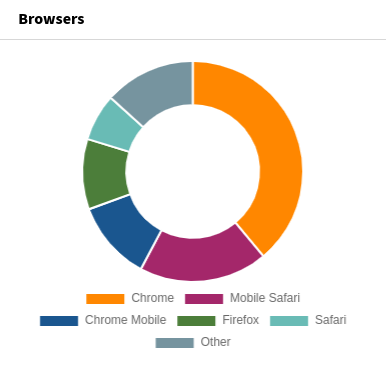
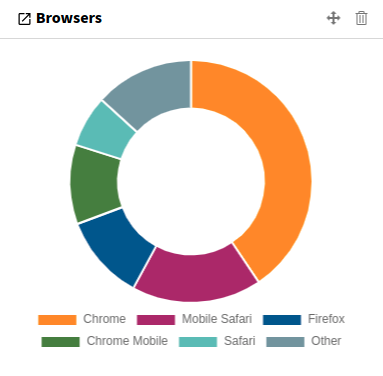
[FEATURE] Add link from widget to corresponding Matomo report
Resolves: #7

Changed region(s): [[0.0862, 0.1463, 0.8903, 0.9362], [0.0, 0.0293, 1.0, 0.117], [0.3446, 0.1755, 0.4308, 0.2048]]

diff --git a/Resources/Private/Layouts/Widget/Widget.html b/Resources/Private/Layouts/Widget/Widget.html
@@ -1,0 +1,19 @@
+<html xmlns:f="http://typo3.org/ns/TYPO3/CMS/Fluid/ViewHelpers" data-namespace-typo3-fluid="true">
+<div class="widget-content-title">
+    <span>
+        <f:if condition="{reportLink}">
+            <a href="{reportLink}" target="_blank" rel="noopener" title="{f:translate(key:'LLL:EXT:matomo_widgets/Resources/Private/Language/Dashboard.xlf:openReport')}"><f:image src="EXT:matomo_widgets/Resources/Public/Icons/actions-external-link.svg" width="16" alt="{f:translate(key:'LLL:EXT:matomo_widgets/Resources/Private/Language/Dashboard.xlf:openReport')}"/></a>
+        </f:if>
+        {f:translate(id: configuration.title, default: configuration.title)}
+    </span>
+</div>
+<div class="widget-content-main">
+    <f:render section="main" optional="true"/>
+</div>
+<f:variable name="footer" value="{f:render(section:'footer', optional: 'true')}"/>
+<f:if condition="{footer -> f:spaceless()}">
+    <div class="widget-content-footer">
+        {footer -> f:format.raw()}
+    </div>
+</f:if>
+</html>

diff --git a/Classes/Widgets/TableWidget.php b/Classes/Widgets/TableWidget.php
@@ -43,6 +43,11 @@ class TableWidget implements WidgetInterface, AdditionalCssInterface
      */
     private $buttonProvider;
 
+    /**
+     * @var array
+     */
+    private $options;
+
     public function __construct(
         WidgetConfigurationInterface $configuration,
         TableDataProviderInterface $dataProvider,
@@ -54,6 +59,7 @@ class TableWidget implements WidgetInterface, AdditionalCssInterface
         $this->dataProvider = $dataProvider;
         $this->view = $view;
         $this->buttonProvider = $buttonProvider;
+        $this->options = $options;
     }
 
     public function renderWidgetContent(): string
@@ -70,6 +76,7 @@ class TableWidget implements WidgetInterface, AdditionalCssInterface
             ],
             'button' => $this->buttonProvider,
             'configuration' => $this->configuration,
+            'reportLink' => $this->options['reportLink'] ?? '',
         ]);
 
         return $this->view->render();

diff --git a/Classes/DependencyInjection/Widgets/CountriesRegistration.php b/Classes/DependencyInjection/Widgets/CountriesRegistration.php
@@ -102,6 +102,7 @@ final class CountriesRegistration extends AbstractRegistration
             ->arg(
                 '$options',
                 [
+                    'reportLink' => $this->buildReportLink(),
                     'siteTitle' => $this->matomoConfiguration->getSiteTitle(),
                     'title' => $localisedTitle,
                 ]
@@ -118,5 +119,14 @@ final class CountriesRegistration extends AbstractRegistration
                     'width' => 'small',
                 ]
             );
+    }
+
+    private function buildReportLink(): string
+    {
+        return \sprintf(
+            '%s?module=CoreHome&action=index&idSite=%d&period=month&date=today#?segment=&category=General_Visitors&subcategory=UserCountry_SubmenuLocations',
+            $this->matomoConfiguration->getUrl(),
+            $this->matomoConfiguration->getIdSite()
+        );
     }
 }

diff --git a/Classes/DependencyInjection/Widgets/OsFamiliesRegistration.php b/Classes/DependencyInjection/Widgets/OsFamiliesRegistration.php
@@ -79,6 +79,7 @@ final class OsFamiliesRegistration extends AbstractRegistration
             ->arg(
                 '$options',
                 [
+                    'reportLink' => $this->buildReportLink(),
                     'siteTitle' => $this->matomoConfiguration->getSiteTitle(),
                     'title' => $localisedTitle,
                 ]
@@ -95,5 +96,14 @@ final class OsFamiliesRegistration extends AbstractRegistration
                     'width' => 'small',
                 ]
             );
+    }
+
+    private function buildReportLink(): string
+    {
+        return \sprintf(
+            '%s?module=CoreHome&action=index&idSite=%d&period=month&date=today#?segment=&category=General_Visitors&subcategory=DevicesDetection_Software',
+            $this->matomoConfiguration->getUrl(),
+            $this->matomoConfiguration->getIdSite()
+        );
     }
 }

diff --git a/Classes/DependencyInjection/Widgets/VisitsPerMonthRegistration.php b/Classes/DependencyInjection/Widgets/VisitsPerMonthRegistration.php
@@ -76,6 +76,7 @@ final class VisitsPerMonthRegistration extends AbstractRegistration
             ->arg(
                 '$options',
                 [
+                    'reportLink' => $this->buildReportLink(),
                     'siteTitle' => $this->matomoConfiguration->getSiteTitle(),
                     'title' => $localisedTitle,
                 ]
@@ -92,5 +93,14 @@ final class VisitsPerMonthRegistration extends AbstractRegistration
                     'width' => 'small',
                 ]
             );
+    }
+
+    private function buildReportLink(): string
+    {
+        return \sprintf(
+            '%s?module=CoreHome&action=index&idSite=%d&period=month&date=today#?segment=&category=General_Visitors&subcategory=General_Overview',
+            $this->matomoConfiguration->getUrl(),
+            $this->matomoConfiguration->getIdSite()
+        );
     }
 }

diff --git a/Classes/DependencyInjection/Widgets/CampaignsRegistration.php b/Classes/DependencyInjection/Widgets/CampaignsRegistration.php
@@ -90,6 +90,7 @@ final class CampaignsRegistration extends AbstractRegistration
             ->arg(
                 '$options',
                 [
+                    'reportLink' => $this->buildReportLink(),
                     'siteTitle' => $this->matomoConfiguration->getSiteTitle(),
                     'title' => $localisedTitle,
                 ]
@@ -106,5 +107,14 @@ final class CampaignsRegistration extends AbstractRegistration
                     'width' => 'small',
                 ]
             );
+    }
+
+    private function buildReportLink(): string
+    {
+        return \sprintf(
+            '%s?module=CoreHome&action=index&idSite=%d&period=month&date=today#?segment=&category=Referrers_Referrers&subcategory=Referrers_Campaigns',
+            $this->matomoConfiguration->getUrl(),
+            $this->matomoConfiguration->getIdSite()
+        );
     }
 }

diff --git a/Classes/DependencyInjection/Widgets/BrowsersRegistration.php b/Classes/DependencyInjection/Widgets/BrowsersRegistration.php
@@ -79,6 +79,7 @@ final class BrowsersRegistration extends AbstractRegistration
             ->arg(
                 '$options',
                 [
+                    'reportLink' => $this->buildReportLink(),
                     'siteTitle' => $this->matomoConfiguration->getSiteTitle(),
                     'title' => $localisedTitle,
                 ]
@@ -95,5 +96,14 @@ final class BrowsersRegistration extends AbstractRegistration
                     'width' => 'small',
                 ]
             );
+    }
+
+    private function buildReportLink(): string
+    {
+        return \sprintf(
+            '%s?module=CoreHome&action=index&idSite=%d&period=month&date=today#?segment=&category=General_Visitors&subcategory=DevicesDetection_Software',
+            $this->matomoConfiguration->getUrl(),
+            $this->matomoConfiguration->getIdSite()
+        );
     }
 }

diff --git a/Classes/DependencyInjection/Widgets/VisitsPerDayRegistration.php b/Classes/DependencyInjection/Widgets/VisitsPerDayRegistration.php
@@ -76,6 +76,7 @@ final class VisitsPerDayRegistration extends AbstractRegistration
             ->arg(
                 '$options',
                 [
+                    'reportLink' => $this->buildReportLink(),
                     'siteTitle' => $this->matomoConfiguration->getSiteTitle(),
                     'title' => $localisedTitle,
                 ]
@@ -92,5 +93,14 @@ final class VisitsPerDayRegistration extends AbstractRegistration
                     'width' => 'medium',
                 ]
             );
+    }
+
+    private function buildReportLink(): string
+    {
+        return \sprintf(
+            '%s?module=CoreHome&action=index&idSite=%d&period=day&date=today#?segment=&category=General_Visitors&subcategory=General_Overview',
+            $this->matomoConfiguration->getUrl(),
+            $this->matomoConfiguration->getIdSite()
+        );
     }
 }

diff --git a/Classes/Widgets/DoughnutChartWidget.php b/Classes/Widgets/DoughnutChartWidget.php
@@ -28,6 +28,7 @@ class DoughnutChartWidget extends \TYPO3\CMS\Dashboard\Widgets\DoughnutChartWidg
         array $options = []
     ) {
         $configuration = $this->prefixWithSiteTitle($configuration, $options);
+        $view->assign('reportLink', $options['reportLink'] ?? '');
         parent::__construct($configuration, $dataProvider, $view, $buttonProvider, $options);
     }
 }

diff --git a/Classes/Widgets/BarChartWidget.php b/Classes/Widgets/BarChartWidget.php
@@ -28,6 +28,7 @@ class BarChartWidget extends \TYPO3\CMS\Dashboard\Widgets\BarChartWidget
         array $options = []
     ) {
         $configuration = $this->prefixWithSiteTitle($configuration, $options);
+        $view->assign('reportLink', $options['reportLink'] ?? '');
         parent::__construct($configuration, $dataProvider, $view, $buttonProvider, $options);
     }
 }

diff --git a/Documentation/Widgets/Index.rst b/Documentation/Widgets/Index.rst
@@ -17,7 +17,9 @@ to use these widgets.
    underlying data providers can be adjusted. Have a look into the
    :ref:`widget-configuration` section.
 
-The following widgets are available:
+The following widgets are available. A link to the corresponding page in Matomo
+is displayed via in icon in the header bar of the widget if the report is
+available.
 
 .. contents::
    :depth: 1

diff --git a/CHANGELOG.md b/CHANGELOG.md
@@ -6,6 +6,9 @@ and this project adheres to [Semantic Versioning](https://semver.org/spec/v2.0.0
 
 ## [Unreleased]
 
+### Added
+- Link from widget to corresponding Matomo report if available (#7)
+
 ### Changed
 - Use selectCheckBox in site configuration for active widget selection instead of checkboxLabeledToggle, an upgrade wizard is available (#10)
 
